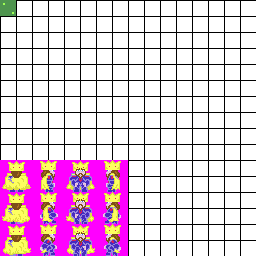
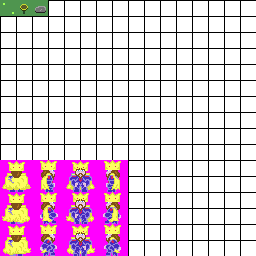
feat(Rain): adds levelloading from file

Changed region(s): [[0.0625, 0.0, 0.1875, 0.0625]]

diff --git a/src/ch/nivisan/rain/level/Level.java b/src/ch/nivisan/rain/level/Level.java
@@ -6,25 +6,29 @@ import ch.nivisan.rain.level.tile.Tile;
 public class Level {
   protected int width;
   protected int height;
-  protected int[] tiles;
+  protected int[] tilesInt;
+  protected Tile[] tiles;
+
 
   public Level(int width, int height) {
       this.width = width;
       this.height = height;
 
-      tiles = new int[width * height];
+      tilesInt = new int[width * height];
       generateLevel();
   }
 
   // load from file
   public Level(String path){
-     loadLevel(path);
+      loadLevel(path);
+      generateLevel();
+
   }
 
   protected void generateLevel() {
   }
 
-  private void loadLevel(String path) {
+  protected void loadLevel(String path) {
   }
 
   private void time(){
@@ -45,8 +49,15 @@ public class Level {
       int yEnd = (yScroll + screen.height + 16) >> 4;
 
       for(int y = yStart; y < yEnd; y++){
-       for(int x = xStart; x < xEnd; x++){
-           getTile(x,y).render(x,y,screen);
+       for(int x = xStart; x < xEnd; x++) {
+           int index = x + y * 16;
+
+           // getTile(x,y).render(x,y,screen);
+           if (index < 0 || index >= 256){
+               Tile.empty.render(x, y, screen);
+               continue;
+           }
+           tiles[index].render(x, y, screen);
        }
       }
 
@@ -57,7 +68,9 @@ public class Level {
       if(x < 0 || y < 0 || x >= width || y >= height)
           return Tile.empty;
 
-      if(tiles[x + y * width] == 0) return Tile.grass;
+      if(tilesInt[x + y * width] == 0) return Tile.grass;
+      if(tilesInt[x + y * width] == 1) return Tile.flower;
+      if(tilesInt[x + y * width] == 2) return Tile.rock;
       return Tile.empty;
   }
 }

diff --git a/src/ch/nivisan/rain/level/SpawnLevel.java b/src/ch/nivisan/rain/level/SpawnLevel.java
@@ -1,0 +1,48 @@
+package ch.nivisan.rain.level;
+
+import ch.nivisan.rain.level.tile.Tile;
+
+import javax.imageio.ImageIO;
+import java.awt.image.BufferedImage;
+import java.io.IOException;
+
+public class SpawnLevel extends Level{
+    private int[] pixels;
+
+    public SpawnLevel(String path) {
+        super(path);
+    }
+
+    protected void loadLevel(String path) {
+        try{
+            BufferedImage image = ImageIO.read(SpawnLevel.class.getResource(path));
+            int width = image.getWidth();
+            int height = image.getHeight();
+            tiles = new Tile[width * height];
+            pixels = new int[width * height];
+            image.getRGB(0,0,width,height,pixels,0,width);
+        }
+        catch(IOException ex){
+            ex.printStackTrace();
+            System.out.println("Could not load level file!");
+        }
+    }
+
+    // Grass = 0x00ff00
+    // Flower = 0xffff00
+    // Rock = 0x7f7f00
+    @Override
+    protected void generateLevel() {
+        for(int i = 0; i < pixels.length; i++){
+            if(pixels[i] == 0xff00ff00){
+                tiles[i] = Tile.grass;
+            }
+            else if(pixels[i] == 0xffffff00){
+                tiles[i] = Tile.flower;
+            }
+            else if(pixels[i] == 0xff7f7f00){
+                tiles[i] = Tile.rock;
+            }
+        }
+    }
+}

diff --git a/src/ch/nivisan/rain/Game.java b/src/ch/nivisan/rain/Game.java
@@ -5,6 +5,7 @@ import ch.nivisan.rain.graphics.Screen;
 import ch.nivisan.rain.input.Keyboard;
 import ch.nivisan.rain.level.Level;
 import ch.nivisan.rain.level.RandomLevel;
+import ch.nivisan.rain.level.SpawnLevel;
 
 import javax.swing.*;
 import java.awt.*;
@@ -46,7 +47,7 @@ public class Game extends Canvas implements Runnable {
         keyboard = new Keyboard();
         addKeyListener(keyboard);
 
-        level = new RandomLevel(64,64);
+        level = new SpawnLevel("../assets/Level.png");
         player = new Player(keyboard);
     }
 

diff --git a/src/ch/nivisan/rain/level/tile/RockTile.java b/src/ch/nivisan/rain/level/tile/RockTile.java
@@ -1,0 +1,19 @@
+package ch.nivisan.rain.level.tile;
+
+import ch.nivisan.rain.graphics.Screen;
+import ch.nivisan.rain.graphics.Sprite;
+
+public class RockTile extends Tile {
+    public RockTile(Sprite sprite){
+        super(sprite);
+    }
+
+    public void render(int x, int y, Screen screen){
+        screen.renderTile(x << 4,y << 4,this);
+    }
+
+    @Override
+    public boolean solid(){
+        return true;
+    }
+}

diff --git a/src/ch/nivisan/rain/graphics/Sprite.java b/src/ch/nivisan/rain/graphics/Sprite.java
@@ -11,6 +11,8 @@ public class Sprite {
     private SpriteSheet sheet;
 
     public static Sprite grass = new Sprite(16 ,0 ,0, SpriteSheet.tiles);
+    public static Sprite flower = new Sprite(16 ,1 ,0, SpriteSheet.tiles);
+    public static Sprite rock = new Sprite(16 ,2,0, SpriteSheet.tiles);
     public static Sprite empty = new Sprite(16,0x1B87E0);
 
     // unused since mathematically flipped

diff --git a/src/ch/nivisan/rain/level/tile/Tile.java b/src/ch/nivisan/rain/level/tile/Tile.java
@@ -9,6 +9,8 @@ public class Tile {
     public int width, height;
     public Sprite sprite;
     public static Tile grass = new GrassTile(Sprite.grass);
+    public static Tile flower = new FlowerTile(Sprite.flower);
+    public static Tile rock = new RockTile(Sprite.rock);
     public static Tile empty = new EmptyTile(Sprite.empty);
 
     public Tile(Sprite sprite) {

diff --git a/src/ch/nivisan/rain/level/tile/FlowerTile.java b/src/ch/nivisan/rain/level/tile/FlowerTile.java
@@ -1,0 +1,14 @@
+package ch.nivisan.rain.level.tile;
+
+import ch.nivisan.rain.graphics.Screen;
+import ch.nivisan.rain.graphics.Sprite;
+
+public class FlowerTile extends Tile{
+    public FlowerTile(Sprite sprite) {
+        super(sprite);
+    }
+
+    public void render(int x, int y, Screen screen){
+        screen.renderTile(x << 4,y << 4,this);
+    }
+}

diff --git a/src/ch/nivisan/rain/level/RandomLevel.java b/src/ch/nivisan/rain/level/RandomLevel.java
@@ -13,7 +13,7 @@ public class RandomLevel extends Level {
     protected void generateLevel() {
         for(int y = 0; y < height; y++) {
            for(int x = 0; x < width; x++) {
-              tiles[x + y * width]  =  random.nextInt(4);
+              tilesInt[x + y * width]  =  random.nextInt(4);
            }
         }
     }

diff --git a/src/ch/nivisan/rain/entity/mob/FlipState.java b/src/ch/nivisan/rain/entity/mob/FlipState.java
@@ -4,5 +4,5 @@ public enum FlipState {
     None,
     XFlipped,
     YFlipped,
-    XYFlipped
+    XYFlipped,
 }
